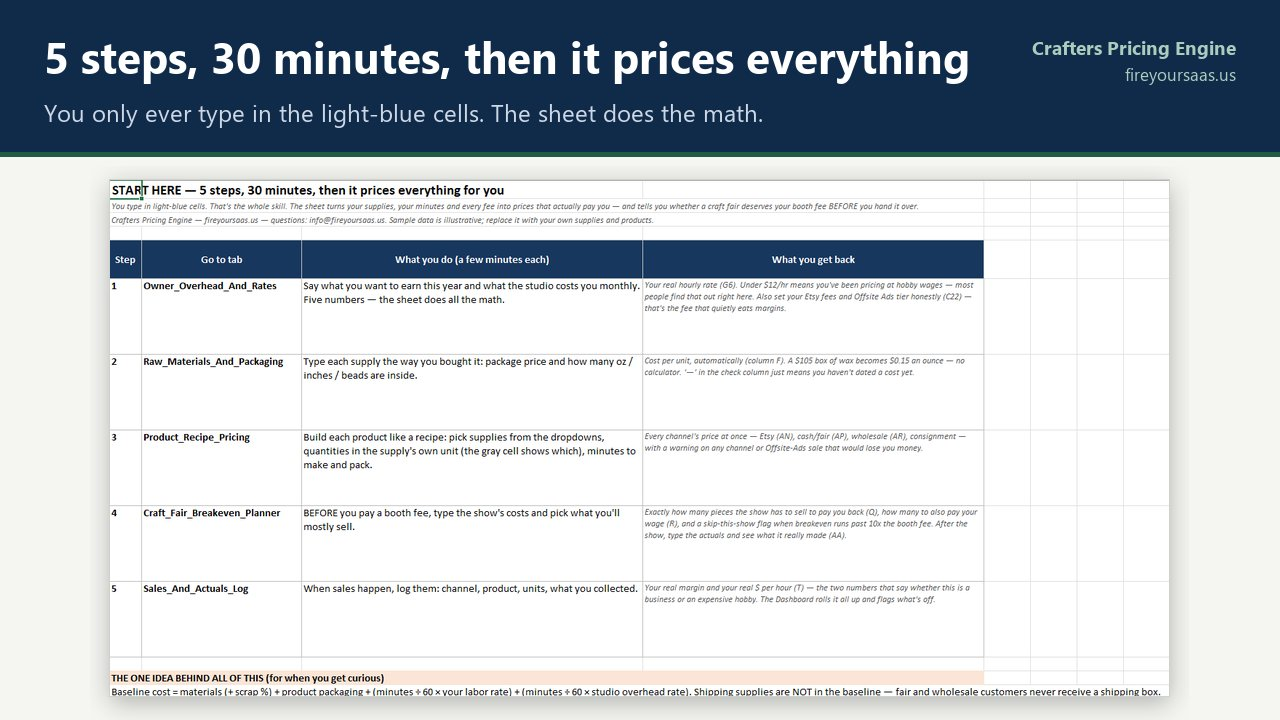
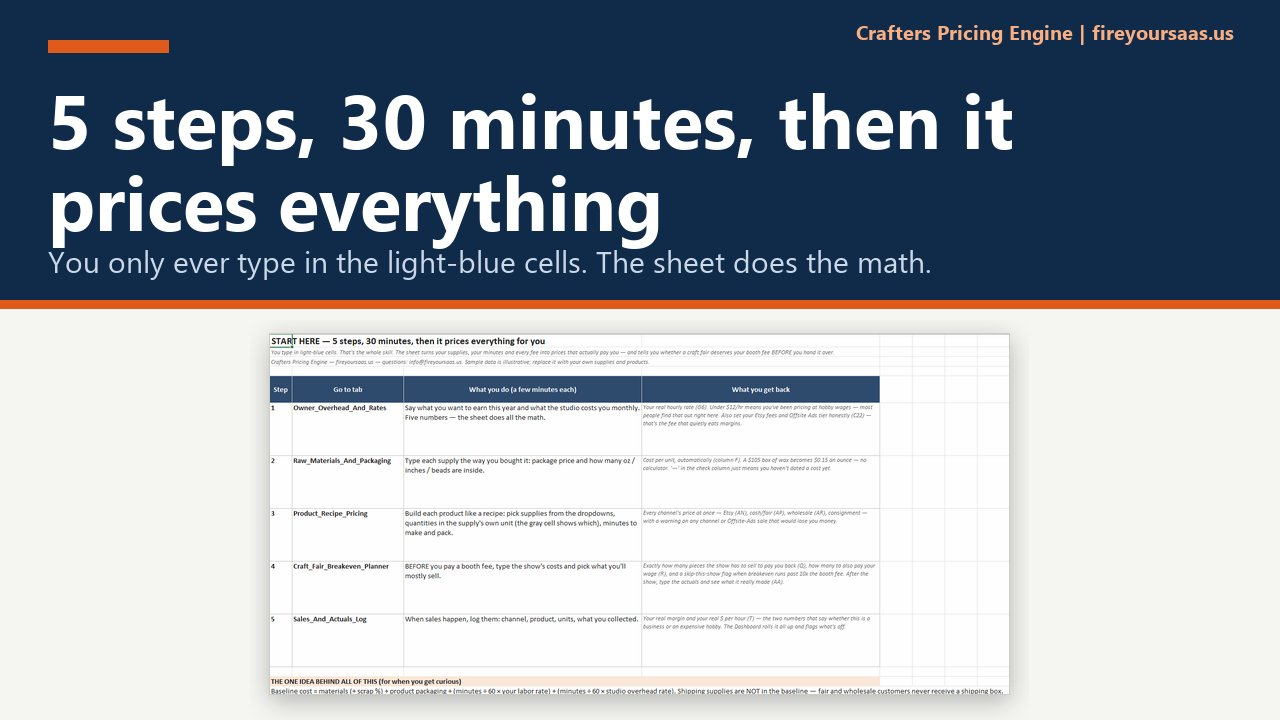
Dominant headline covers + orange lightbox caption bar

diff --git a/index.html b/index.html
@@ -84,6 +84,7 @@
   .lb-bar { display:flex; align-items:center; justify-content:space-between; padding:10px 14px; color:#fff; font-family:'Barlow Condensed',sans-serif; font-size:16px; }
   .lb button { background:rgba(255,255,255,.12); border:none; color:#fff; font-size:20px; padding:8px 18px; border-radius:6px; cursor:pointer; }
   .lb .lb-x { font-size:16px; }
+  .lb-cap { background:var(--accent); color:#fff; font-family:'Barlow Condensed',sans-serif; font-weight:800; font-size:clamp(19px,4.5vw,28px); text-align:center; padding:10px 16px; line-height:1.15; }
 
   .card-hook { font-size: 13.5px; color: var(--muted); line-height: 1.4; margin-bottom: 16px; flex-grow: 1; }
   .card-footer { display: flex; justify-content: space-between; align-items: center; border-top: 1px solid var(--border); padding-top: 12px; }
@@ -314,13 +315,14 @@
 
 <div class="lb" id="lb" onclick="if(event.target===this)lbClose()">
   <div class="lb-bar"><button class="lb-x" onclick="lbClose()">✕ Close</button><span id="lbN"></span><span style="width:90px"></span></div>
+  <div class="lb-cap" id="lbCap"></div>
   <div class="lb-img" id="lbImgWrap"><img id="lbImg" src="" alt="Screenshot full screen"></div>
   <div class="lb-bar"><button onclick="lbNav(-1)">‹ Prev</button><button onclick="lbNav(1)">Next ›</button></div>
 </div>
 <script>
-var GALS={crafters:["01.jpg","02.jpg","03.jpg","04.jpg","05.jpg","06.jpg","07.jpg"],hvac:["01.jpg","02.jpg","03.jpg","04.jpg","05.jpg","06.jpg","07.jpg","08.jpg"]};
+var GALS={crafters:[{f:"01.jpg",c:"5 steps, 30 minutes, then it prices everything"},{f:"02.jpg",c:"One screen tells you if you're getting paid"},{f:"03.jpg",c:"Your hour, costed honestly"},{f:"04.jpg",c:"Buy by the box, cost by the ounce"},{f:"05.jpg",c:"Build each product from dropdowns"},{f:"06.jpg",c:"Is that booth fee worth it? Know before you pay"},{f:"07.jpg",c:"What you really cleared, per sale, per hour"}],hvac:[]};
 var lbG=null,lbI=0;
-function lbShow(){var f=GALS[lbG];document.getElementById("lbImg").src="covers/"+lbG+"/"+f[lbI];document.getElementById("lbN").textContent=(lbI+1)+" / "+f.length;}
+function lbShow(){var f=GALS[lbG];document.getElementById("lbImg").src="covers/"+lbG+"/"+f[lbI].f;document.getElementById("lbCap").textContent=f[lbI].c;document.getElementById("lbN").textContent=(lbI+1)+" / "+f.length;}
 function lbOpen(g,i){lbG=g;lbI=i;lbShow();document.getElementById("lb").classList.add("open");document.body.style.overflow="hidden";}
 function lbClose(){document.getElementById("lb").classList.remove("open");document.body.style.overflow="";}
 function lbNav(d){var n=GALS[lbG].length;lbI=(lbI+d+n)%n;lbShow();}
